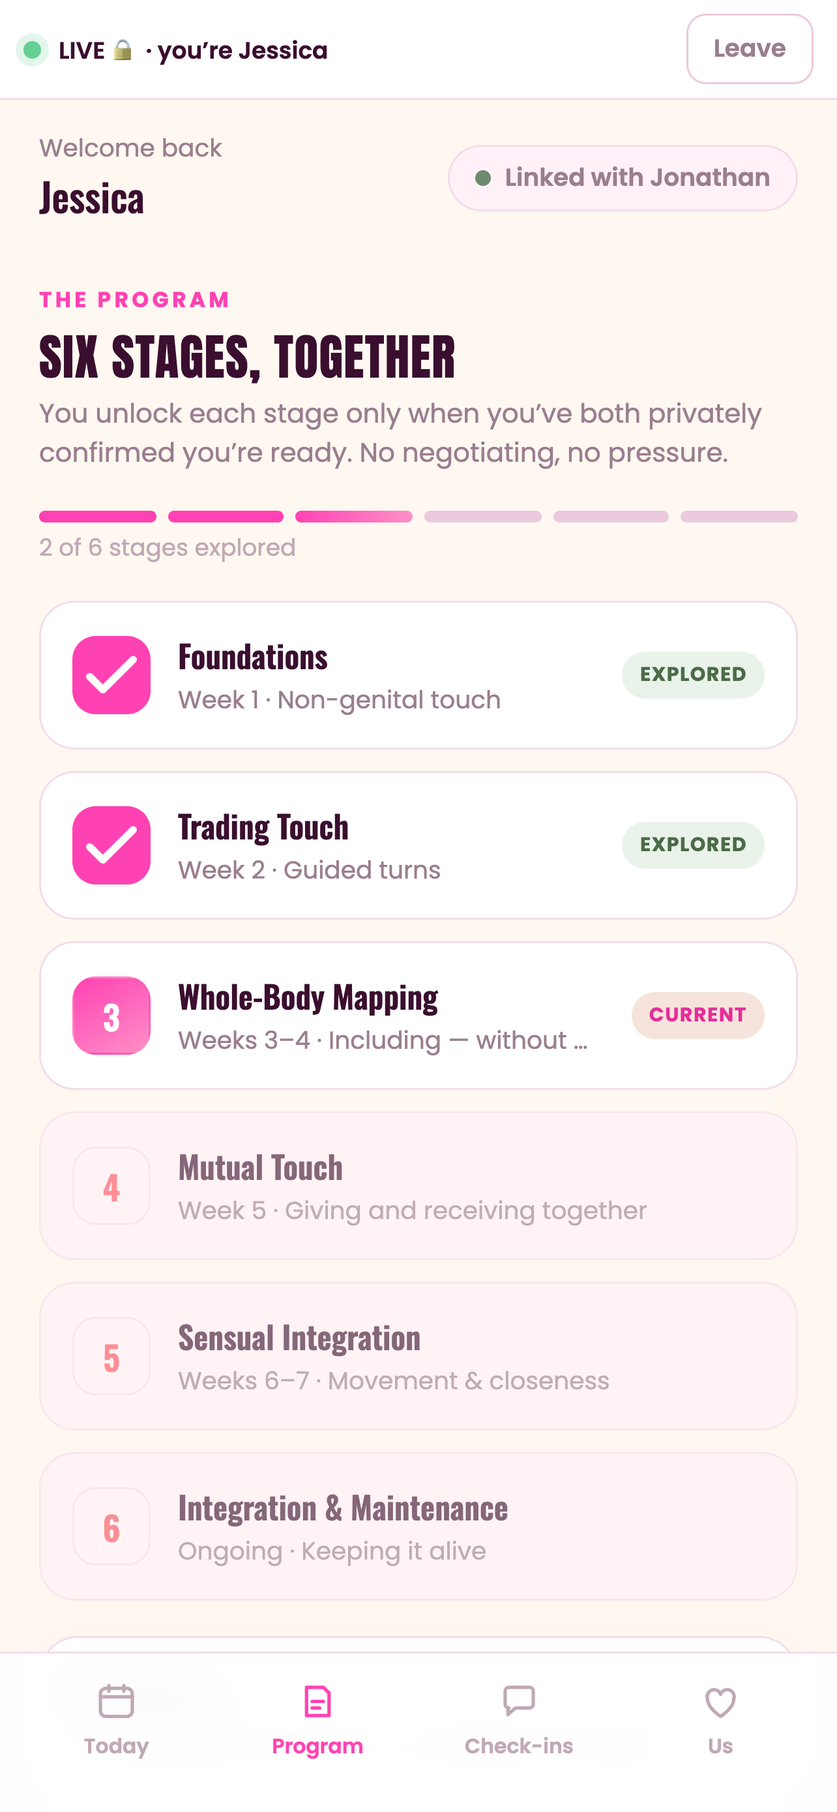
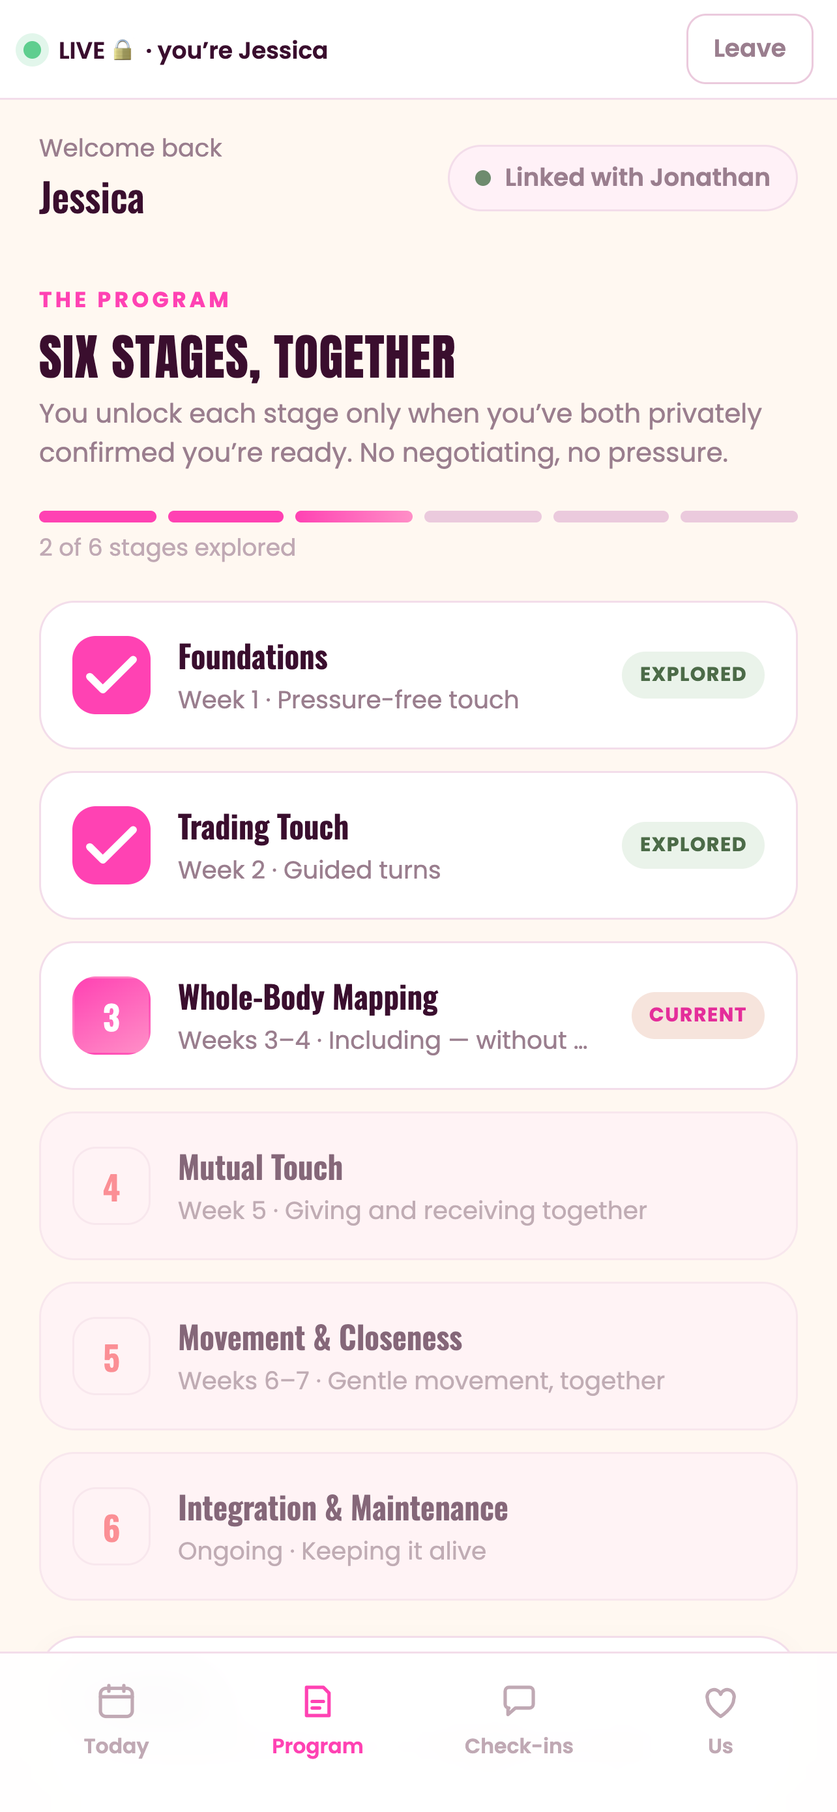
Rewrite the App Store listing for Guideline 1.1, recapture screenshots
Name, subtitle, keywords, promotional text and description are all rewritten.
Removed from metadata: 'sex therapy', 'libido' and 'desire' from keywords;
'sex therapists' from the promo text and the description; 'non-genital',
'desire differences' and 'erectile changes' from the description; 'licensed
sex therapist' from the closing paragraph.

The app name is the drift that mattered most: ASC was carrying 'Slow Burn:
Couples Intimacy', a suffix that has never existed in this repo. store-listing.md
is now the source of truth and ASC gets typed to match it.

All twelve screenshots recaptured against 7f2051d. Three of the six screens
had flagged wording rendered into the image, which no amount of rewriting the
description would have fixed.

Keeping 'intimacy' in keywords and deferring the word 'touch' out of the
description are both Jonathan's calls, recorded in store/1.1-remediation-notes.md
along with the full offending-string table.

Changed region(s): [[0.2181, 0.712, 0.7788, 0.7739], [0.3427, 0.3715, 0.6231, 0.4024]]

diff --git a/store/1.1-remediation-notes.md b/store/1.1-remediation-notes.md
@@ -1,0 +1,233 @@
+# Slow Burn — App Store listing v2 (Guideline 1.1 remediation) — DRAFT, NOT SUBMITTED
+
+> **Why this file exists.** Apple rejected under **Guideline 1.1 — Safety — Objectionable
+> Content**, citing the app's **marketing / metadata** (description, promotional text,
+> keywords). Apple warned that resubmitting "with similar marketing and concept" will
+> draw the same or additional violations. So this is a genuine reframe of the store
+> marketing, not a word swap.
+>
+> **What changed in principle:** every reference to a *sexual act, sexual anatomy, or a
+> sex-therapy service* is gone from the metadata. What the app actually is — a staged,
+> consent-gated Sensate Focus program — is unchanged and still stated honestly. The
+> reframe is onto **connection, communication, and relationship wellness**.
+>
+> The clinical specifics (boundaries per stage, anatomy-neutral vs. clinical wording)
+> still live **inside the app**, behind the first-launch acknowledgement, where 17+
+> instructional content belongs. Apple's objection was to the *storefront*, not to that.
+>
+> **STATUS: DRAFT.** Nothing here has been pushed to App Store Connect. `store/store-listing.md`
+> is left as-is until Jonathan signs off on this voice.
+
+---
+
+## What tripped Guideline 1.1 (offending strings, verbatim from `store/store-listing.md`)
+
+| Field | Offending string |
+|---|---|
+| Keywords | `sex therapy` — an explicit sexual-service term, and the single worst offender in a comma list Apple reads as claimed search intent |
+| Keywords | `libido` |
+| Keywords | `desire` (reads as sexual desire in this keyword neighbourhood) |
+| Promotional text | `based on the method sex therapists have used for decades` |
+| Description ¶2 | `the touch-based method sex therapists have used since Masters & Johnson` |
+| Description, HOW IT WORKS | `from unhurried, non-genital touch through to integration` — **anatomical reference** |
+| Description, WHO IT'S FOR | `desire differences`, `erectile changes` — **sexual-function references** |
+| Description, FROM THE TEAM | `please work with a licensed sex therapist` |
+| App name (as entered in ASC) | `Slow Burn: Couples Intimacy` — the `: Couples Intimacy` suffix is **not in this repo**; ASC has drifted from `store-listing.md`, which says the name is just `Slow Burn` |
+| **Screenshot 1** (`iphone69_01_welcome.png`) | on-image caption: **`Built on Sensate Focus · used by sex therapists since 1970`** — screenshots are metadata under 1.1 |
+| **Screenshot 2** (`iphone69_02_program.png`) | on-image: **`Week 1 · Non-genital touch`**, **`Sensual Integration`** |
+| **Screenshot 3** (`iphone69_03_consent.png`) | on-image: **`Continue non-genital touch`**, **`Boundary for this stage. Still non-genital. No expectation of arousal.`** |
+
+Screenshots 4–6 (check-ins, pairing choice, pair code) are clean.
+
+---
+
+## Names & identifiers
+
+### App Name (30 max)
+**BEFORE (live in ASC):** `Slow Burn: Couples Intimacy`
+**AFTER:** `Slow Burn: Couples Connection` *(29 chars)*
+
+*Rationale: keeps the brand and the couples signal; drops the word Apple's reviewer sees
+as the category claim. If Jonathan prefers, plain `Slow Burn` is also fine and is what
+this repo has always said the name is — but it gives up the ASO value of the suffix.*
+
+### Subtitle (30 max)
+**BEFORE:** `Rebuild intimacy, at your pace`
+**AFTER:** `Reconnect, at your own pace` *(27 chars)*
+
+*Rationale: "at your pace" is the app's own tagline and stays. "Reconnect" carries the
+same promise as "intimacy" without being the word under scrutiny.*
+
+- **Bundle ID:** `com.jonathanbiles.slowburn` *(unchanged)*
+- **Primary category:** Health & Fitness · **Secondary:** Lifestyle *(unchanged)*
+- **Age rating:** answer truthfully — no imagery, instructional/clinical, but the in-app
+  content references sexual activity, so **17+ still applies**. Do **not** lower the age
+  rating to try to help the 1.1 appeal; an inaccurate rating is its own rejection (2.3.6).
+
+---
+
+## Promotional text (170 max — editable anytime without review)
+
+**BEFORE**
+```
+A private, step-by-step program for rebuilding closeness through guided, unhurried touch — on your own or with a partner, based on the method sex therapists have used for decades.
+```
+
+**AFTER** *(168 chars)*
+```
+A calm, step-by-step program for rebuilding closeness at your own pace — on your own or with a partner. Built on Sensate Focus, used by licensed therapists for decades.
+```
+
+---
+
+## Keywords (100 max, comma-separated, no spaces)
+
+**BEFORE**
+```
+intimacy,couples,relationship,sensate,sex therapy,desire,marriage,connection,libido,closeness
+```
+
+**AFTER** *(99 chars)*
+```
+sensate focus,couples,relationship,intimacy,reconnect,connection,closeness,marriage,partner,mindful
+```
+
+*Removed: `sex therapy`, `desire`, `libido`. Added: `sensate focus` (the full clinical
+term — near-empty search space per the ASO report, and the honest description of the
+method), `reconnect`, `partner`, `mindful`.*
+
+> **If Apple bounces this again**, the next thing to drop is `intimacy` — replace with
+> `wellness`. It is not an objectionable word on its own and approved apps use it freely,
+> but it is the only remaining term in the set that sits anywhere near the category.
+
+---
+
+## Description
+
+**BEFORE** — see `store/store-listing.md`. Offending passages listed in the table above.
+
+**AFTER**
+```
+Slow Burn is a guided closeness program — a calm, structured way to rebuild connection at your own pace, on your own or with a partner.
+
+It's built on Sensate Focus, a structured, step-by-step method developed by clinical researchers in the 1970s and used by licensed therapists ever since. Instead of a single session, Slow Burn turns the protocol into a six-stage program you move through one unhurried step at a time.
+
+HOW IT WORKS
+• A staged program — from simple, pressure-free connection through to full integration — with clear, clinical guidance for each session. Every stage has a solo form as well as a partnered one.
+• A readiness gate that removes the awkward part. With a partner, the next stage opens only when you have BOTH privately tapped "I feel ready." No negotiating, no pressure.
+• Private reflections after each session. You each answer a few questions on your own — and Slow Burn only ever surfaces what you BOTH named. Never the rest.
+• Gentle, never-nagging reminders to keep the practice going.
+
+FOR EVERY KIND OF PERSON
+Slow Burn adapts its language to you — your pronouns, your words for your partner, your relationship structure. It assumes no gender, no orientation, and no particular shape of relationship.
+
+WHO IT'S FOR
+Anyone reconnecting after a long stretch of drift — a new baby, a health change, a recovery, a stressful season, or simply years of two people moving at different speeds. It's for feeling close again, calmly and privately.
+
+PRIVATE BY DESIGN
+No account. No ads. No analytics. Nothing is collected about you. Your identity settings and your written notes never leave your device. If you pair two phones, they agree on a key only they hold and everything between them is end-to-end encrypted — the relay in the middle carries scrambled bytes it cannot read, and keeps none of them.
+
+A NOTE FROM US
+Slow Burn is a wellness and education program. It is not medical advice, and it is not a substitute for care from a qualified clinician. If you are managing pain, a medical condition, recovery, or a history of trauma, please work with a licensed therapist or a pelvic-floor physical therapist. The app links you to trusted professional directories to find one.
+```
+
+### Line-by-line diff of the description
+
+| Was | Now | Why |
+|---|---|---|
+| "a guided **intimacy** program" | "a guided **closeness** program" | de-escalates the opening line |
+| "rebuild **physical closeness**" | "rebuild **connection**" | drops the physical qualifier |
+| "the touch-based method **sex therapists** have used since Masters & Johnson" | "a structured, step-by-step method developed by **clinical researchers** in the 1970s and used by **licensed therapists** ever since" | same claim, same truth (Masters & Johnson *were* clinical researchers; AASECT therapists *are* licensed) — no sexual-service term |
+| "from unhurried, **non-genital** touch through to integration" | "from simple, **pressure-free connection** through to full integration" | removes the anatomical reference |
+| "a **consent** gate" / "the next stage **unlocks**" | "a **readiness** gate" / "the next stage **opens**" | "consent gate" reads as sexual-consent framing to a reviewer skimming for 1.1; "opens" also avoids the earlier IAP confusion Apple flagged separately |
+| "**desire differences**, postpartum recovery, menopause, **erectile changes**, recovery after illness" | "a new baby, a health change, a recovery, a stressful season, or years of two people moving at different speeds" | removes both sexual-function references; keeps every real audience |
+| "**FROM THE TEAM**" | "**A NOTE FROM US**" | cosmetic |
+| "a licensed **sex therapist** or pelvic-floor physical therapist" | "a licensed **therapist** or a pelvic-floor physical therapist" | same referral, no sexual-service term |
+
+**The one judgment call:** the word **touch** survives, once, in "HOW IT WORKS" → it does
+not, actually — it is gone from the description entirely in the AFTER copy above. Sensate
+Focus *is* a touch protocol, so if you feel the listing has become vague about what the
+user actually does, the safest honest re-add is "guided, unhurried touch" in HOW IT WORKS.
+"Touch" on its own is not objectionable (massage and bodywork apps use it freely) — but
+given Apple has now rejected this listing repeatedly, my recommendation is to ship this
+round **without** it and add it back later once the app is approved and stable.
+
+---
+
+## Unchanged fields
+
+URLs, App Review notes, App Privacy answers, export compliance and copyright are all
+carried over from `store/store-listing.md` unchanged — none of them were cited, and the
+review notes in particular are accurate and worth keeping verbatim.
+
+**One addition to the App Review notes** (append at the end), to answer 1.1 head-on:
+
+```
+RE: THE PREVIOUS 1.1 REJECTION. The app's name, subtitle, description, promotional text, keywords and screenshots have all been rewritten. All references to sexual acts, sexual anatomy and sex-therapy services have been removed from the store listing and from every screenshot. The listing now describes the app as what it is: a structured, staged program for rebuilding closeness and communication between partners, based on Sensate Focus. The app contains no imagery of any kind — all content is instructional text, gated behind a first-launch wellness/not-medical-advice acknowledgement, and rated 17+ accordingly.
+```
+
+---
+
+## In-app copy that must also change (requires a new build)
+
+These are code changes in `www/index.html`. Items 1–3 are the urgent ones because they
+appear **inside the screenshots**, which Apple counts as metadata.
+
+| # | Line | Now | Proposed | Why |
+|---|---|---|---|---|
+| 1 | 1555 | `Built on Sensate Focus · used by sex therapists since 1970` | `Built on Sensate Focus · used by licensed therapists since 1970` | **visible on screenshot 1** — the first thing the reviewer sees |
+| 2 | 306 | stage 1 sub: `Non-genital touch` | `Pressure-free touch` | **visible on screenshots 2 and 3** |
+| 3 | 320–321, 327, 331, 336–337 | `Off-limits this stage: {areas}, and any penetrative sex.` / `Still non-genital. No expectation of arousal.` | keep the substance, but move the anatomical clause out of the **summary/boundary chip** that renders above the fold and into the expanded stage detail | **visible on screenshot 3**; the content itself is fine at 17+, it just must not be the framing shot |
+| 4 | 2055 | `SAR-certified sex coach and host of the Freedom Between the Sheets podcast` | `certified intimacy coach and podcast host` | the podcast title is the most suggestive string in the binary, and it is third-party promotion on the "Us" tab |
+| 5 | 2052 | `A sex therapist or pelvic-floor PT can prescribe Slow Burn` | `A licensed therapist or pelvic-floor PT can prescribe Slow Burn` | |
+| 6 | 1570 | `work with a licensed clinician — a sex therapist or pelvic-floor physical therapist` | `— a licensed therapist or pelvic-floor physical therapist` | |
+| 7 | 2278, 2280 | card titles `Certified sex therapists`, `Sex therapy directory` | `AASECT-certified therapists`, `Therapist directory` | card **titles** only; the AASECT / Psychology Today URLs are correct and stay |
+| 8 | ~310 | stage 5 title `Sensual Integration` | `Integration` or `Closeness & Movement` | **visible on screenshot 2** |
+
+**Deliberately NOT changed:** lines 261–265 (orientation options incl. Bisexual, Pansexual,
+Asexual, Demisexual) and lines 287–288 / 733–735 (the anatomy-wording preference:
+"Chest and genitals" / "Breasts, chest and genitals"). These are inclusivity and
+clinical-precision settings deep inside a 17+ app behind an acknowledgement gate. They are
+not marketing, they are not objectionable, and stripping them would damage the app for the
+users it was built for. They must simply never appear in a screenshot.
+
+---
+
+## Screenshots — must be recaptured
+
+`store/screenshots/` currently holds 6 shots per device at commit `cce2b8a`. After the
+in-app copy changes land, regenerate with:
+
+```
+node store/capture-screenshots.mjs
+```
+
+- **1 · welcome** — recapture after change #1.
+- **2 · program** — recapture after changes #2 and #8.
+- **3 · consent/stage detail** — recapture after changes #2 and #3. If the boundary chip
+  cannot be reframed in time, **swap this screenshot for a different screen entirely** —
+  the "Today" screen or the identity/language screen both show the app well and carry no
+  flagged text.
+- **4 · checkins, 5 · pairing-choice, 6 · pair-code** — clean, no change needed.
+
+---
+
+## How this gets pushed
+
+**There is no fastlane metadata path in this repo.** There is no `fastlane/` directory, no
+`metadata/en-US/*.txt`, and `scripts/asc-submit.sh` states explicitly (line 15) that it
+"uploads no metadata". So today this listing must be **typed into App Store Connect by
+hand**.
+
+Two options, Jonathan's call:
+
+1. **Manual (fastest, zero setup).** Paste each field above into ASC. Promotional text
+   alone can be updated without a new review; name, subtitle, keywords, description and
+   screenshots all ship with a version.
+2. **Add a fastlane deliver lane (better long-term).** Create
+   `fastlane/metadata/en-US/{name,subtitle,description,promotional_text,keywords}.txt`
+   from the AFTER blocks above plus a `Deliverfile`, and add a `deliver` step to
+   `codemagic.yaml` using the existing App Store Connect API key integration. That makes
+   the listing reviewable in git and pushable programmatically — worth doing given how
+   far ASC has already drifted from `store/store-listing.md` (the `: Couples Intimacy`
+   name suffix is in ASC but has never been in this repo).

diff --git a/store/store-listing.md b/store/store-listing.md
@@ -8,11 +8,22 @@
 >
 > ⚠ lines below were corrected from an older listing that predated the
 > inclusivity redesign and the end-to-end encrypted pairing.
+>
+> 🚨 **Rewritten for the Guideline 1.1 rejection (Aug 2026).** Apple rejected the
+> listing under 1.1 — Objectionable Content, citing the app's marketing and
+> metadata, and warned that "similar marketing and concept" would draw the same
+> violation again. Every reference to a sexual act, sexual anatomy, or a
+> sex-therapy service is now gone from this listing and from all six screenshots.
+> The reasoning, the full before/after and the offending-string table live in
+> `store/1.1-remediation-notes.md`. **This file is the source of truth for the
+> listing; keep ASC matching it.**
 
 ## Names & identifiers
-- **App Name (30 max):** `Slow Burn`
-- **Subtitle (30 max):** ⚠ `Rebuild intimacy, at your pace` — *was "Rebuild intimacy,
-  together", which excludes solo users; the app's own tagline is "at your pace".*
+- **App Name (30 max):** `Slow Burn: Couples Connection` *(29)* — 🚨 *ASC had drifted
+  to `Slow Burn: Couples Intimacy`, a suffix that was never in this repo.*
+- **Subtitle (30 max):** `Reconnect, at your own pace` *(27)* — 🚨 *was "Rebuild
+  intimacy, at your pace"; before that "Rebuild intimacy, together", which
+  excluded solo users. "at your pace" is the app's own tagline and stays.*
 - **Bundle ID:** `com.jonathanbiles.slowburn` ⚠ *was a `com.CHANGE-ME.slowburn` placeholder*
 - **Primary category:** Health & Fitness · **Secondary:** Lifestyle
 - **Age rating:** answer truthfully — no imagery, instructional/clinical, but
@@ -21,23 +32,28 @@
 
 ## Promotional text (170 max — editable anytime without review)
 ```
-A private, step-by-step program for rebuilding closeness through guided, unhurried touch — on your own or with a partner, based on the method sex therapists have used for decades.
+A calm, step-by-step program for rebuilding closeness at your own pace — on your own or with a partner. Built on Sensate Focus, used by licensed therapists for decades.
 ```
+🚨 *168 chars. Was: "…through guided, unhurried touch — …based on the method **sex
+therapists** have used for decades."*
 
 ## Keywords (100 max, comma-separated, no spaces)
 ```
-intimacy,couples,relationship,sensate,sex therapy,desire,marriage,connection,libido,closeness
+sensate focus,couples,relationship,intimacy,reconnect,connection,closeness,marriage,partner,mindful
 ```
+🚨 *99 chars. Removed `sex therapy`, `desire`, `libido`. Added the full clinical term
+`sensate focus` (near-empty search space), plus `reconnect`, `partner`, `mindful`.
+`intimacy` kept — Jonathan's call; it is the first thing to drop if Apple bounces again.*
 
 ## Description
 ```
-Slow Burn is a guided intimacy program — a calm, structured way to rebuild physical closeness at your own pace, on your own or with a partner.
+Slow Burn is a guided closeness program — a calm, structured way to rebuild connection at your own pace, on your own or with a partner.
 
-It's built on Sensate Focus, the touch-based method sex therapists have used since Masters & Johnson. Instead of a single therapy session, Slow Burn turns the protocol into a six-stage program you move through one unhurried step at a time.
+It's built on Sensate Focus, a structured, step-by-step method developed by clinical researchers in the 1970s and used by licensed therapists ever since. Instead of a single session, Slow Burn turns the protocol into a six-stage program you move through one unhurried step at a time.
 
 HOW IT WORKS
-• A staged program — from unhurried, non-genital touch through to integration — with clear, clinical guidance for each session. Every stage has a solo form as well as a partnered one.
-• A consent gate that removes the awkward part. With a partner, the next stage unlocks only when you have BOTH privately tapped "I feel ready." No negotiating, no pressure.
+• A staged program — from simple, pressure-free connection through to full integration — with clear, clinical guidance for each session. Every stage has a solo form as well as a partnered one.
+• A readiness gate that removes the awkward part. With a partner, the next stage opens only when you have BOTH privately tapped "I feel ready." No negotiating, no pressure.
 • Private reflections after each session. You each answer a few questions on your own — and Slow Burn only ever surfaces what you BOTH named. Never the rest.
 • Gentle, never-nagging reminders to keep the practice going.
 
@@ -45,14 +61,17 @@ FOR EVERY KIND OF PERSON
 Slow Burn adapts its language to you — your pronouns, your words for your partner, your relationship structure. It assumes no gender, no orientation, and no particular shape of relationship.
 
 WHO IT'S FOR
-Anyone navigating desire differences, postpartum recovery, menopause, erectile changes, recovery after illness, or simply years of drift. It's for reconnecting — calmly and privately.
+Anyone reconnecting after a long stretch of drift — a new baby, a health change, a recovery, a stressful season, or simply years of two people moving at different speeds. It's for feeling close again, calmly and privately.
 
 PRIVATE BY DESIGN
 No account. No ads. No analytics. Nothing is collected about you. Your identity settings and your written notes never leave your device. If you pair two phones, they agree on a key only they hold and everything between them is end-to-end encrypted — the relay in the middle carries scrambled bytes it cannot read, and keeps none of them.
 
-FROM THE TEAM
-Slow Burn is a wellness and education program. It is not medical advice, and it is not a substitute for care from a qualified clinician. If you are managing pain, a medical condition, recovery, or a history of trauma, please work with a licensed sex therapist or pelvic-floor physical therapist. The app links you to trusted directories to find one.
+A NOTE FROM US
+Slow Burn is a wellness and education program. It is not medical advice, and it is not a substitute for care from a qualified clinician. If you are managing pain, a medical condition, recovery, or a history of trauma, please work with a licensed therapist or a pelvic-floor physical therapist. The app links you to trusted professional directories to find one.
 ```
+🚨 *The word "touch" is deliberately absent this round. Sensate Focus **is** a touch
+protocol, so re-add "guided, unhurried touch" to HOW IT WORKS once 1.0 is approved —
+Jonathan's call, deferred to keep this submission as clean as possible.*
 
 ⚠ *The old PRIVATE BY DESIGN paragraph said "your reflections stay on your
 device". That is no longer true and must not ship: with two paired phones, your
@@ -88,6 +107,8 @@ PAIRING AND THE CAMERA (not required to review the app): pairing two phones is o
 BUSINESS MODEL: Slow Burn is a one-time PAID app. The purchase price on the App Store is the only transaction. There are NO in-app purchases, NO subscriptions, NO tip jar, and NO unlockable, locked or premium content of any kind. The binary contains no StoreKit code and does not link the in-app purchase framework. Everything described above — all six stages, all five reflection decks, all eight practices, all four themes, the keepsake journal, and two-phone pairing — is available to every user immediately on first launch, with no account and no further payment.
 
 Note on wording: the app says a stage "unlocks" when both partners privately confirm they are ready. That is the consent gate, which is the core feature of the program — it is a progress gate between two people, not a purchase or a paid tier.
+
+RE: THE PREVIOUS 1.1 REJECTION. The app's name, subtitle, description, promotional text, keywords and all screenshots have been rewritten. Every reference to sexual acts, sexual anatomy and sex-therapy services has been removed from the store listing and from every screenshot image. The listing now describes the app as what it is: a structured, staged program for rebuilding closeness and communication between partners, based on Sensate Focus. The app contains no imagery of any kind — all content is instructional text, gated behind a first-launch wellness / not-medical-advice acknowledgement that must be accepted before the app can be used, and rated 17+ accordingly.
 ```
 
 ## App Privacy ("nutrition label" answers)
